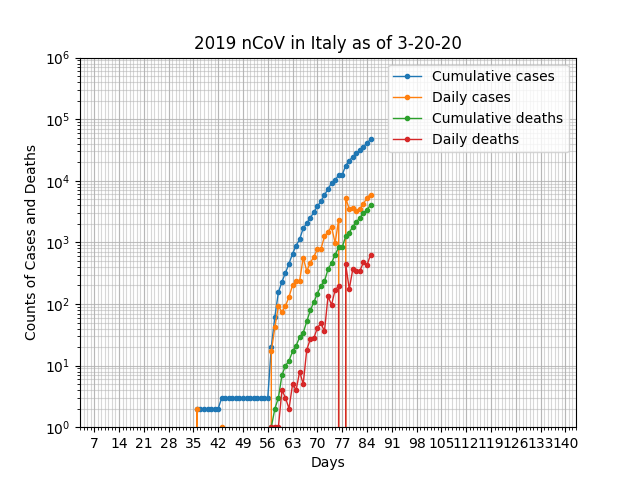
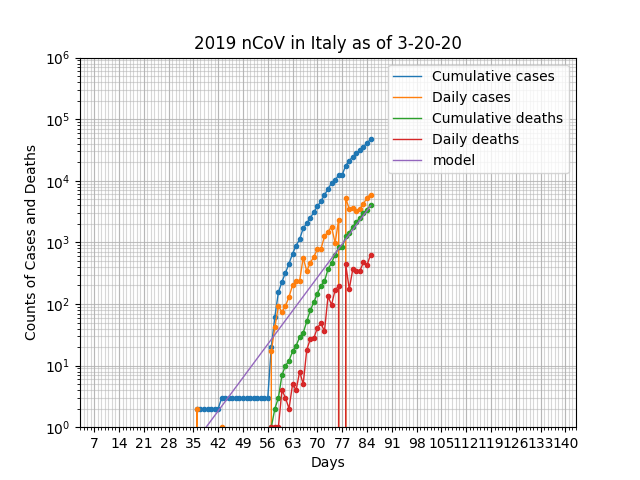
updated regression model

diff --git a/app.py b/app.py
@@ -6,44 +6,55 @@ from matplotlib.ticker import MultipleLocator, ScalarFormatter
 import numpy as np
 import datetime
 import os
+from sklearn.linear_model import LinearRegression
 
 
 def main():
 	''' main function'''
 
 	# define region
-	region = 'Italy'
+	countries = ['Italy']
 
-	# define data type  (Confirmed, Deaths, Recovered)
-	data_types = ['Confirmed', 'Deaths']
-
-	# initialize blank DataFrame
-	df = pd.DataFrame()
-
-	for data in data_types:
-
-		# load data
-		confirmed = load_data(data)
+	# get a list of the countries
+	'''countries = load_data('Confirmed')
+	countries = countries['Country/Region']
+	countries = countries.drop_duplicates()
+	countries = countries.tolist()'''
 	
-		# slice regional data only
-		region_df = get_data(confirmed, region)
+	for country in countries:
+
+		print('Now processing {}...'.format(country))
+
+		# define data type  (Confirmed, Deaths, Recovered)
+		data_types = ['Confirmed', 'Deaths']
+
+		# initialize blank DataFrame
+		df = pd.DataFrame()
+
+		for data in data_types:
+
+			# load data
+			confirmed = load_data(data)
 	
-		# sum cumulative values for each day
-		cumulative = count_data(region_df)
+			# slice regional data only
+			region_df = get_data(confirmed, country)
+	
+			# sum cumulative values for each day
+			cumulative = count_data(region_df)
 
-		# calculate daily counts
-		daily = calc_daily_count(cumulative)
+			# calculate daily counts
+			daily = calc_daily_count(cumulative)
 
-		# combine 2 series
-		addition = pd.concat([cumulative, daily], axis=1)
+			# combine 2 series
+			addition = pd.concat([cumulative, daily], axis=1)
 
-		# add to dataframe
-		df = pd.concat([df, addition], axis=1)
+			# add to dataframe
+			df = pd.concat([df, addition], axis=1)
 
-	df.columns=(['Cumulative cases', 'Daily cases', 'Cumulative deaths', 'Daily deaths'])
+		df.columns=(['Cumulative cases', 'Daily cases', 'Cumulative deaths', 'Daily deaths'])
 
-	# plot data
-	plot_data(df, region)
+		# plot data
+		plot_data(df, country)
 
 
 def load_data(data):
@@ -97,19 +108,42 @@ def calc_daily_count(df):
 	return df
 
 
-def plot_data(df, area):
+def regression(df):
+	''' performs curve fit'''
+
+	df = df.replace(to_replace=0, value=1)
+	start_date = df.index[0]
+	
+	num = len(df)
+	X = np.arange(1, num+1).reshape(-1, 1)
+	Y = df.iloc[:, 1].values.reshape(-1, 1)
+	
+	linear_regressor = LinearRegression()
+	linear_regressor.fit(X, np.log(Y))
+	Y_pred = linear_regressor.predict(X)
+
+	predictions = pd.DataFrame(Y_pred, index=df.index)
+	predictions = predictions.apply(np.exp, axis=0)
+
+	return predictions
+
+
+def state_data(df, area):
 	''' plots data'''
 
-	#is_sc = df['Province/State']=='South Carolina'
-	#df = df[is_sc]
-	#df.reset_index(drop=True, inplace=True)
-	#df.drop(['Province/State', 'Country/Region'], axis=1, inplace=True)
-	#df = df.T
-	#print(df.iloc[0])
-	#df.set_index(df.iloc[0], inplace=True)
+	is_sc = df['Province/State']=='South Carolina'
+	df = df[is_sc]
+	df.reset_index(drop=True, inplace=True)
+	df.drop(['Province/State', 'Country/Region'], axis=1, inplace=True)
+	df = df.T
+	print(df.iloc[0])
+	df.set_index(df.iloc[0], inplace=True)
 
-	# Combine 2 series into dataframe
-	# df = pd.concat([s1, s2], axis=1)
+	return
+
+
+def plot_data(df, area):
+	''' plots data'''
 
 	# get the current date
 	date = df.index[-1]
@@ -117,20 +151,26 @@ def plot_data(df, area):
 	# replace date slashes with dashes
 	date = date.replace('/', '-')
 
+	# replace NaN values with 0
+	df = df.fillna(0)
+
 	# change index to datetime
 	df.index = pd.to_datetime(df.index, infer_datetime_format=True) #format='%m/%-d/%y')
-	print(df)
-
 	
-	# change series back to df
-	#df = pd.DataFrame(df)
+	Y_pred = regression(df)
 
-	# assign column name
-	#df.columns = ['Cumulative', 'Daily']
+	# Add predictions to dataframe
+	df = pd.concat([df, Y_pred], axis=1)
+	df = df.rename(columns={0: 'model'})
+	print(df)	
 
-	# plot df
-	ax = df.plot(marker='o', markersize=3, linewidth=1, logy=True, legend=True)
-
+	#ax = plt.plot(df['Daily cases'])
+	ax = df['Cumulative cases'].plot(kind='line', marker='.', linewidth=1, logy=True, legend=True)
+	ax = df['Daily cases'].plot(kind='line', marker='.', linewidth=1, logy=True, legend=True)
+	ax = df['Cumulative deaths'].plot(kind='line', marker='.', linewidth=1, logy=True, legend=True)
+	ax = df['Daily deaths'].plot(kind='line', marker='.', linewidth=1, logy=True, legend=True)
+	ax = df['model'].plot(kind='line', marker=None, linewidth=1, logy=True, legend=True)
+	
 	# set the range for the y axis
 	ax.set_ylim([1, 1000000])
 
@@ -138,9 +178,6 @@ def plot_data(df, area):
 	ax.yaxis.grid(True, which='minor', linestyle='-', alpha=0.5)
 	ax.yaxis.grid(True, which='major', linestyle='-', alpha=0.8)
 	
-	# move x-axis labels to the top
-	# ax.xaxis.set_ticks_position('top')
-
 	# set the range for the x axis
 	ax.set_xlim([datetime.date(2019, 12,29), datetime.date(2020, 5, 17)])
 
@@ -172,7 +209,7 @@ def plot_data(df, area):
 	plt.savefig(area + '.png')
 	
 	# change back to original working directory
-	os.chdir('..')
+	os.chdir('../..')
 
 	# display the chart
 	plt.show()
